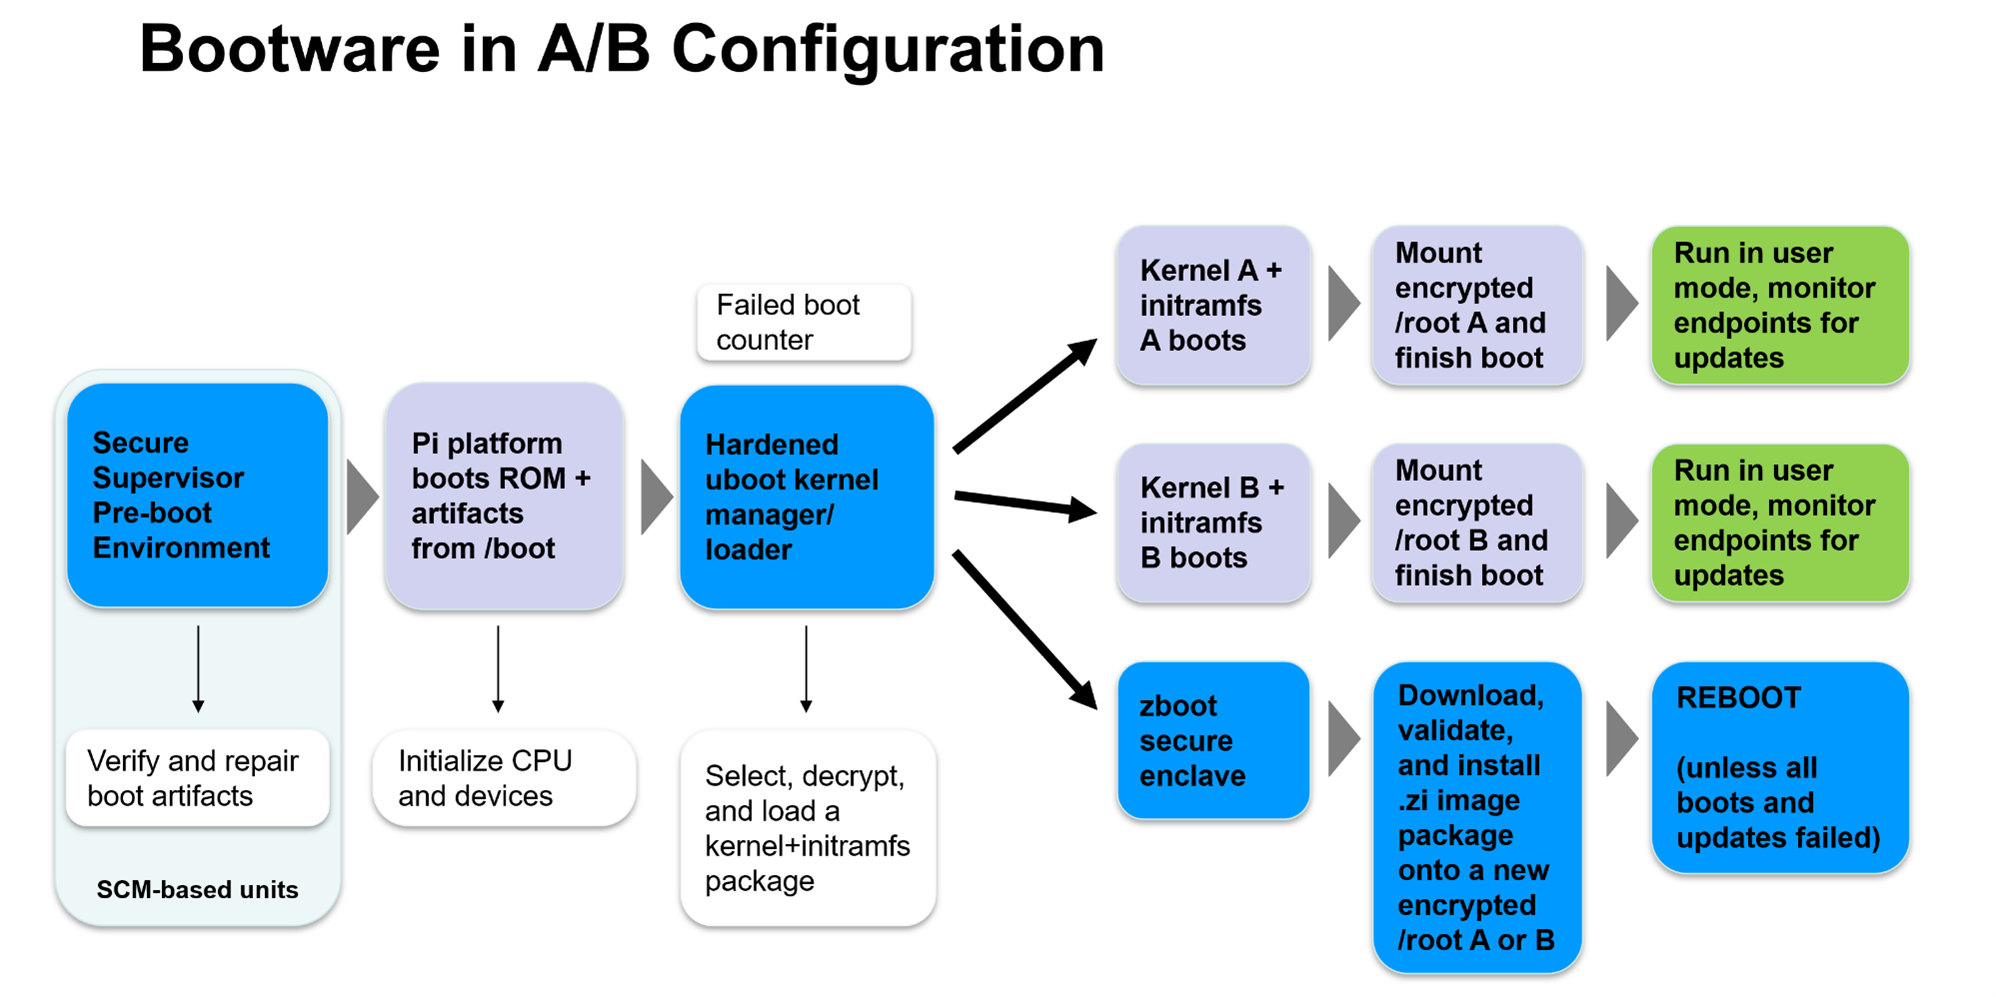
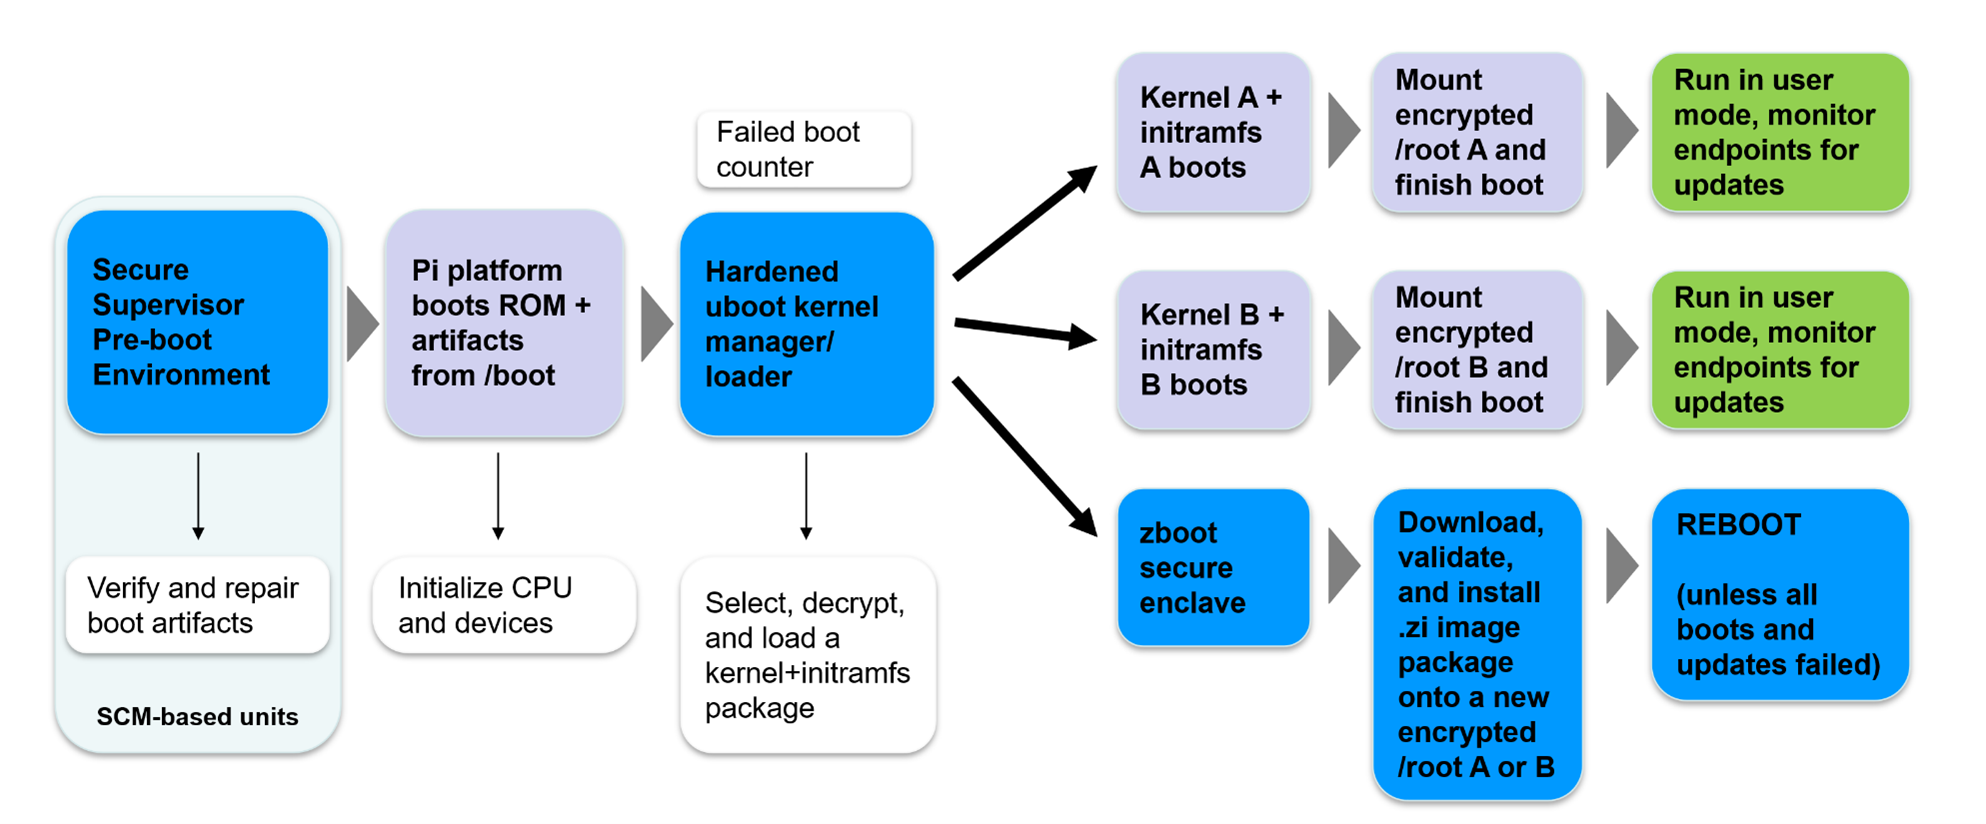
Removed heading from png

diff --git a/content/bootware/_index.md b/content/bootware/_index.md
@@ -20,13 +20,13 @@ Bootware is a secure integrated tool for managing multiple Linux OS installation
 
 -----
 
-#### If you want to jump right in, [Click here to Get Started!](getting-started), 
+#### If you want to jump right in, [Click here to Get Started!](getting-started)
 
 -----
 
 ## What is Bootware?
 
-![Bootware Overview](with-bw.png "Bootware")
+![Bootware Overview](with-bw.png "Bootware in A/B Configuration")
 
 
 - Bootware is full-featured native OS switcher/manager with first rate support for encrypted root and data partitions. Bootware is not a hypervisor.
